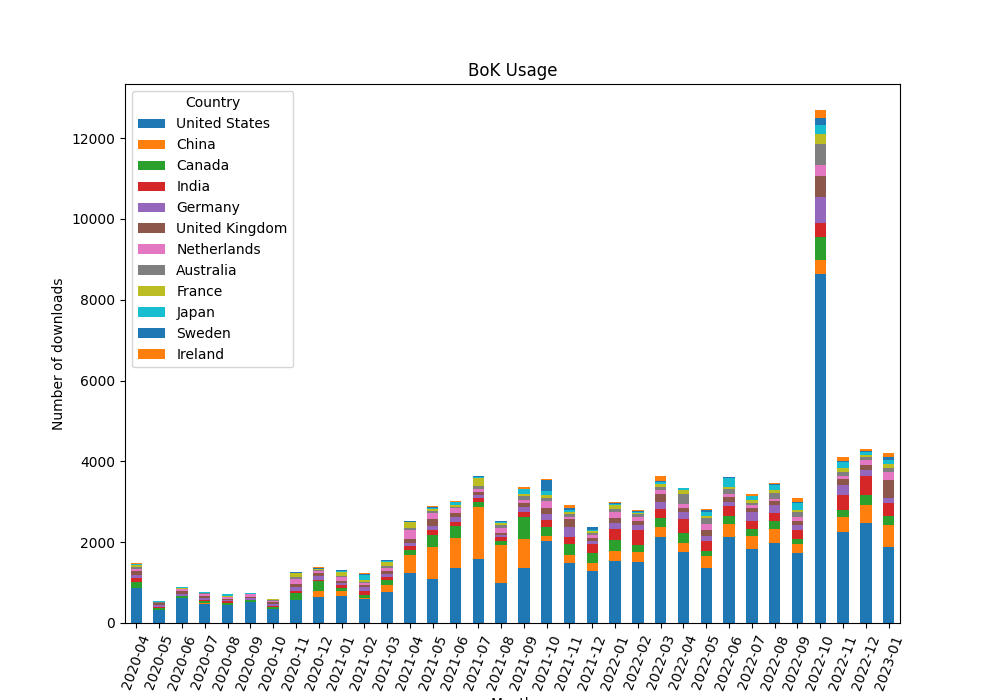
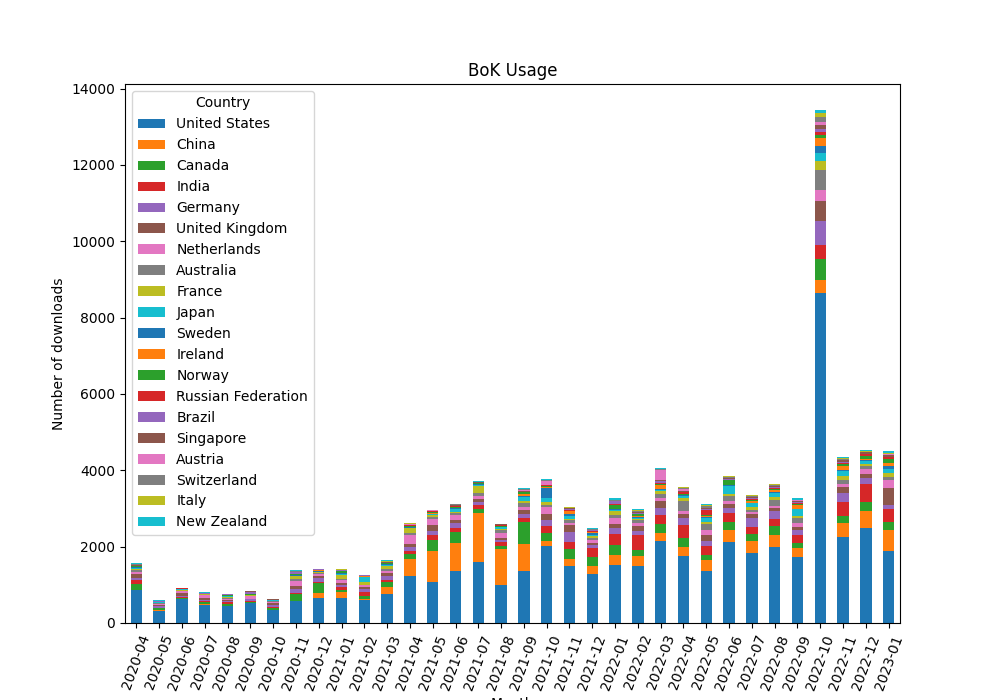
top 20 in graphic

diff --git a/leaderboard.py b/leaderboard.py
@@ -1,22 +1,21 @@
+#! /usr/bin/env python
 '''grab the to n all time countries'''
 import logging
 
 import matplotlib.pyplot as plt
-from matplotlib.ticker import (MultipleLocator, AutoMinorLocator)
-import numpy as np
 
 from time_series import read_data
-
+out_file='data/leader_usage.png'
 logging.basicConfig(level=logging.INFO)
 logger=logging.getLogger(__name__ )
-n=30
+N=20
 
 lb_file='data/leader_board.xlsx'
 df=read_data()
 logger.info ('Number of rows is: %d'% df.shape[0])
 df['Total']=df.sum(axis=1)
 df.sort_values(by='Total',ascending=False,inplace=True)
-print(df.head(n))
+print(df.head(N))
 
 df.to_excel(lb_file)
 logger.info('Wrote ' + lb_file)
@@ -30,17 +29,17 @@ month=['%d-%02d'%(divmod(m,100)) for m in month]
 df.columns=month
 outlier=False
 if outlier:
-  for ix,row in df.head(1).iterrows():
+  for ix,row in df.head(N).iterrows():
     vals=row.tolist()
     country='United States'
     if ix==country: # hack to adjust outlier
       x=vals.index(8645)
       df.at[country,month[x]]=2000
 
-ax=df.head(12).T.plot.bar(rot=70, stacked=True)
+ax=df.head(N).T.plot.bar(rot=70, stacked=True)
 ax.figure.set_size_inches(10,7)
 ax.set_title('BoK Usage')
 ax.set_xlabel('Month')
 ax.set_ylabel('Number of downloads')
-plt.savefig('data/leader_usage.png')
-#plt.show()
+plt.savefig(out_file)
+logger.info('Leader graphic saved to %s'%(out_file))
